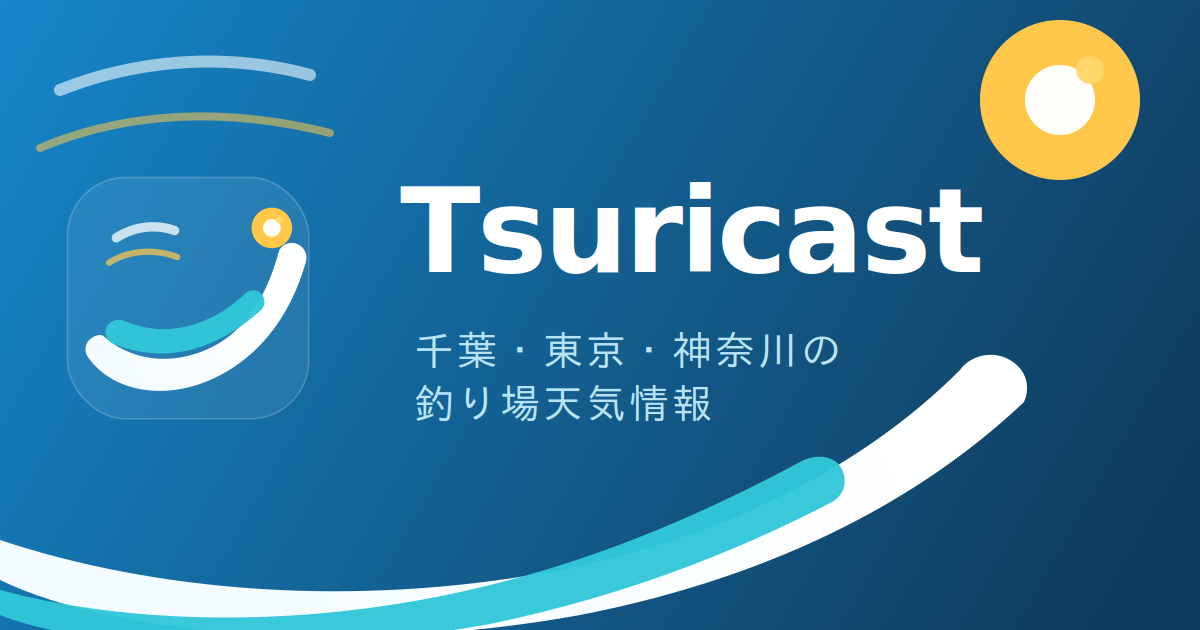
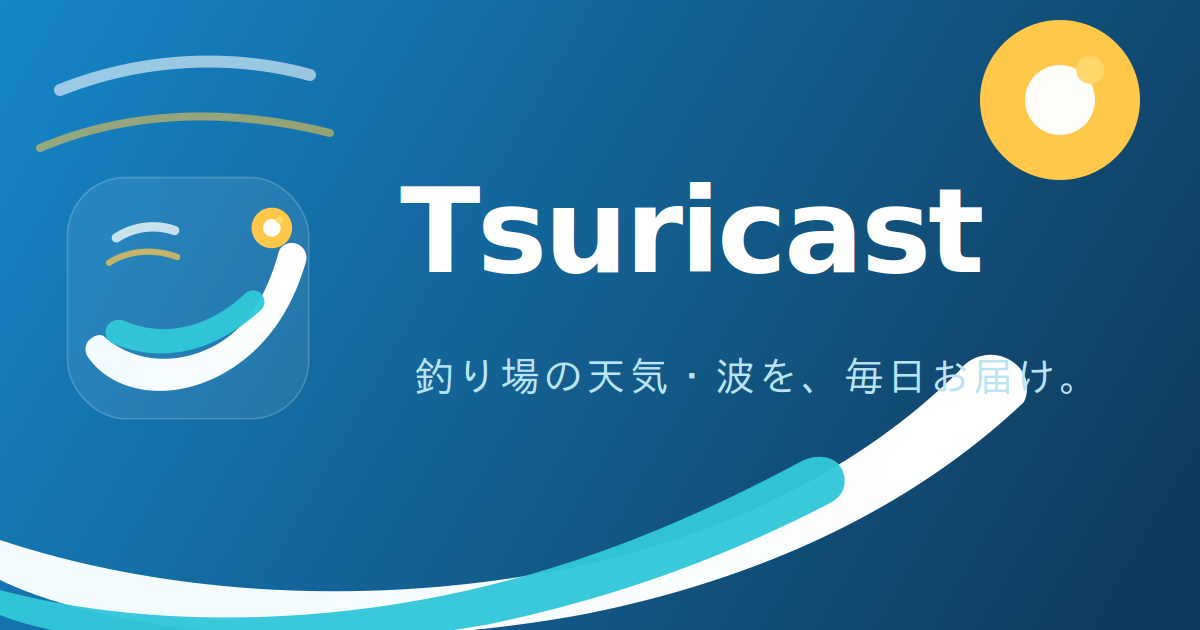
feat: OGPタグラインを新キャッチコピーに変更、descriptionに静岡を追加
- ogp.svg: タグラインを「釣り場の天気・波を、毎日お届け。」に変更
- ogp.png: cairosvgで再生成（v=3）
- base.html: og:image/tw:imageのバージョンをv=2→v=3に更新
- base.html: description/og:desc/tw:descに静岡を追加

https://claude.ai/code/session_01KvjgJzcyfRPKFY9cafPAxt

Changed region(s): [[0.3392, 0.5127, 0.8942, 0.6635]]

diff --git a/templates/base.html b/templates/base.html
@@ -6,23 +6,23 @@
   <link rel="icon" href="/static/img/favicon.png">
   <link rel="apple-touch-icon" href="/static/img/apple-touch-icon.png">
   <title>{% block title %}Tsuricast | 千葉・東京・神奈川の釣り場天気情報{% endblock %}</title>
-  <meta name="description" content="{% block description %}千葉・東京・神奈川の釣り場天気・波高情報。天気・風・波高・水温を毎日更新。{% endblock %}">
+  <meta name="description" content="{% block description %}千葉・東京・神奈川・静岡の釣り場天気・波高情報。天気・風・波高・水温を毎日更新。{% endblock %}">
 
   <!-- OG タグ -->
   <meta property="og:type"        content="website">
   <meta property="og:site_name"   content="Tsuricast">
   <meta property="og:url"         content="{% block og_url %}https://tsuricast.jp{% endblock %}">
   <meta property="og:title"       content="{% block og_title %}{% block title2 %}Tsuricast{% endblock %}{% endblock %}">
-  <meta property="og:description" content="{% block og_desc %}千葉・東京・神奈川の釣り場天気・波高情報。天気・風・波高・水温を毎日更新。{% endblock %}">
-  {% block og_image %}<meta property="og:image" content="https://tsuricast.jp/static/img/ogp.png?v=2">{% endblock %}
+  <meta property="og:description" content="{% block og_desc %}千葉・東京・神奈川・静岡の釣り場天気・波高情報。天気・風・波高・水温を毎日更新。{% endblock %}">
+  {% block og_image %}<meta property="og:image" content="https://tsuricast.jp/static/img/ogp.png?v=3">{% endblock %}
   <meta property="og:image:width"  content="1200">
   <meta property="og:image:height" content="630">
 
   <!-- Twitter Card -->
   <meta name="twitter:card"        content="summary_large_image">
   <meta name="twitter:title"       content="{% block tw_title %}Tsuricast{% endblock %}">
-  <meta name="twitter:description" content="{% block tw_desc %}千葉・東京・神奈川の釣り場天気・波高情報。天気・風・波高・水温を毎日更新。{% endblock %}">
-  <meta name="twitter:image"       content="{% block tw_image %}https://tsuricast.jp/static/img/ogp.png?v=2{% endblock %}">
+  <meta name="twitter:description" content="{% block tw_desc %}千葉・東京・神奈川・静岡の釣り場天気・波高情報。天気・風・波高・水温を毎日更新。{% endblock %}">
+  <meta name="twitter:image"       content="{% block tw_image %}https://tsuricast.jp/static/img/ogp.png?v=3{% endblock %}">
 
   <!-- JSON-LD 構造化データ -->
   {% block jsonld %}
